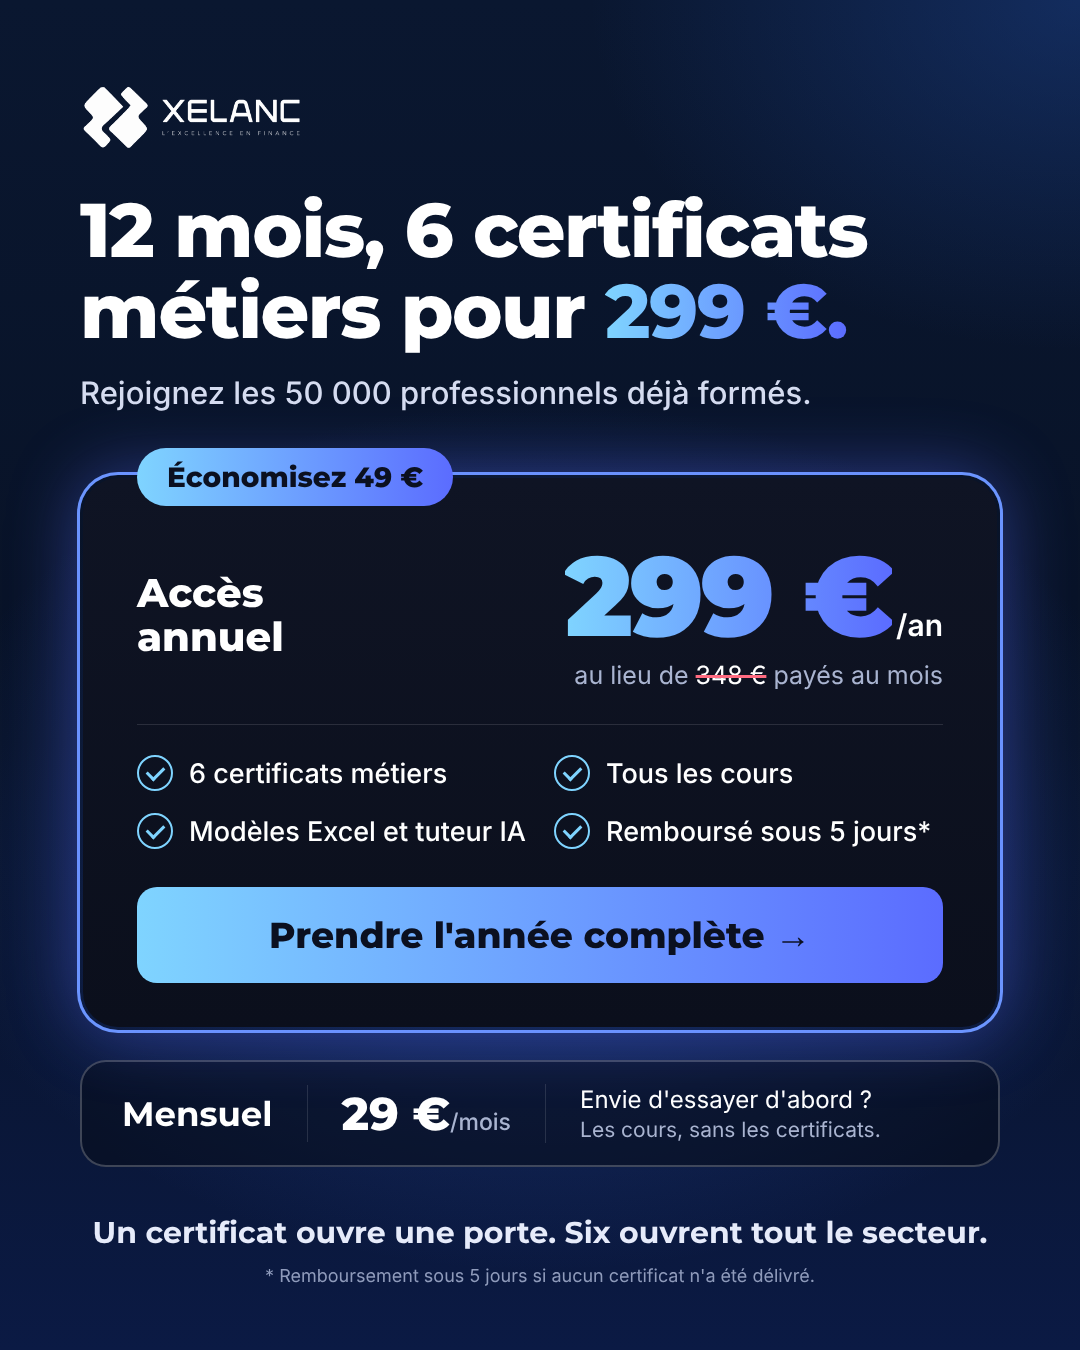
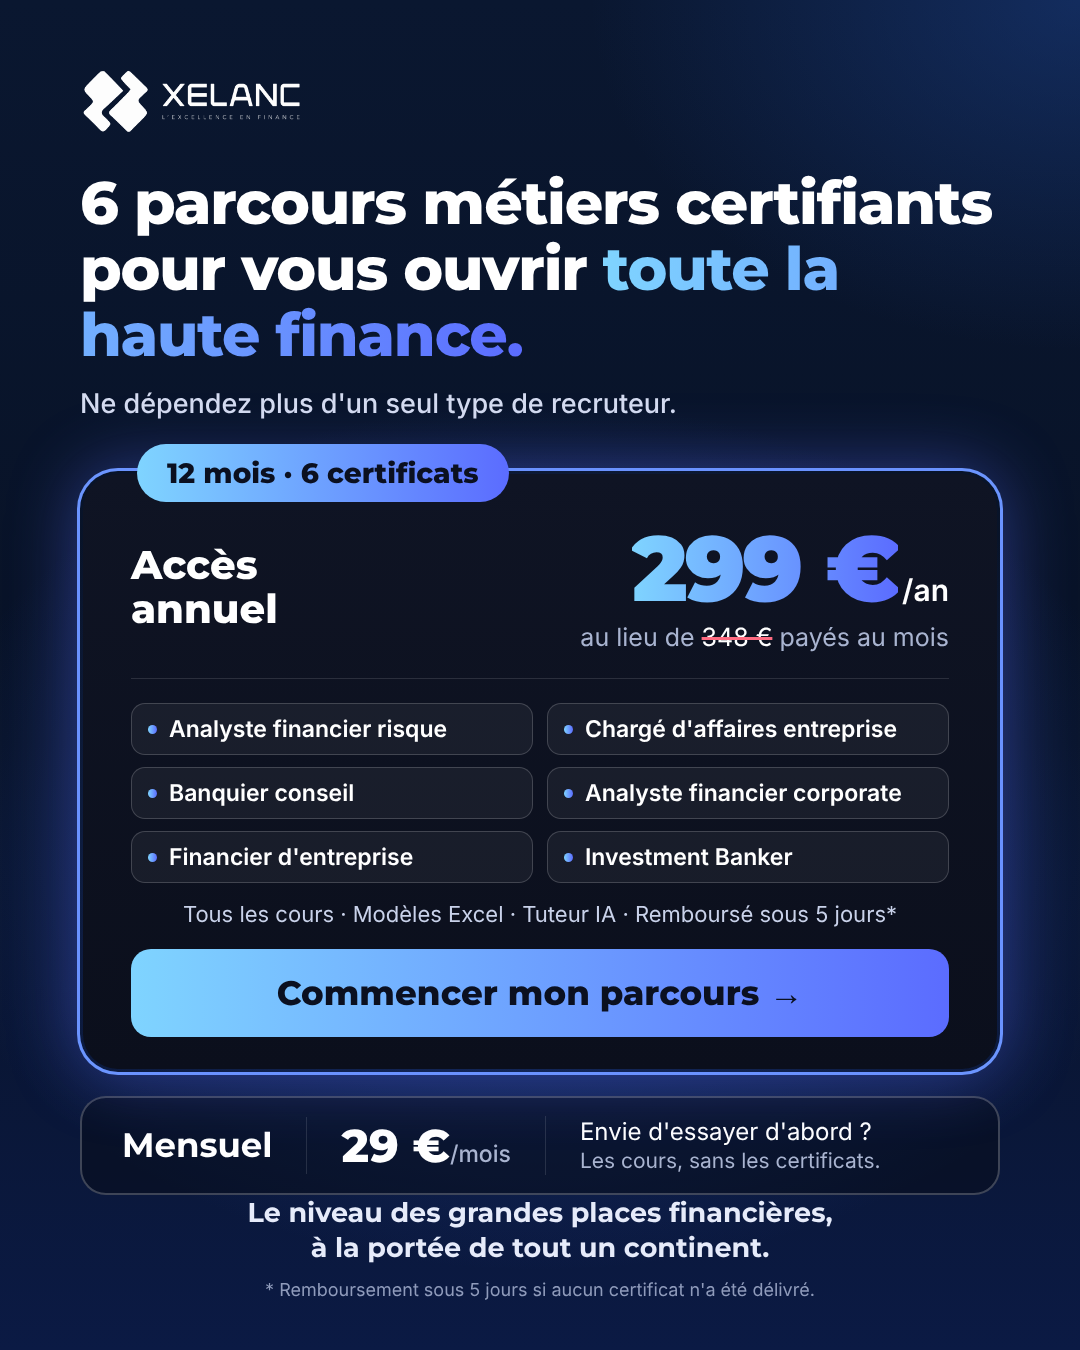
Recentre les visuels de retargeting sur la proposition de valeur
Claude-Session: https://claude.ai/code/session_01LXovPUf4KLwN8kSMXa7eXm

Changed region(s): [[0.0611, 0.0311, 0.9472, 0.9644], [0.1222, 0.4044, 0.275, 0.4978]]

diff --git a/excellence/ads/retargeting/src/v2-valeur.html b/excellence/ads/retargeting/src/v2-valeur.html
@@ -1,0 +1,49 @@
+<!doctype html>
+<html lang="fr"><head><meta charset="utf-8"><link rel="stylesheet" href="style.css"></head>
+<body class="compact tight">
+  <img class="logo" src="logo.png" alt="Xelanc">
+  <p class="eyebrow">PARCOURS MÉTIERS CERTIFIANTS</p>
+  <h1>Ne dépendez plus d'un seul <span class="grad">type de recruteur.</span></h1>
+  <p class="sub">Six métiers de la haute finance. Un certificat vérifiable pour chacun.</p>
+
+  <div class="row" style="margin-top:50px;gap:36px;align-items:center">
+    <div class="cert" style="width:440px;zoom:.86">
+      <div class="cert-in">
+        <img class="mark" src="logo.png" alt="">
+        <div class="t">CERTIFICAT</div>
+        <div class="k">PARCOURS MÉTIER CERTIFIANT</div>
+        <div class="s">Ce certificat atteste que</div>
+        <div class="n">Votre nom</div>
+        <div class="s" style="margin-top:8px">a validé les cinq compétences et réussi l'examen final du parcours</div>
+        <div class="j">Chargé d'affaires entreprise</div>
+        <div class="foot">
+          <div>Identifiant<b>XL-CAP-2026-00127</b>Vérifiable sur xelanc.org</div>
+          <div class="seal"><i></i></div>
+          <div style="text-align:right">Autorité de certification</div>
+        </div>
+      </div>
+    </div>
+    <div class="checks one" style="gap:24px">
+      <div class="check"><i class="tick"></i><div>Un examen final par métier<small>Cinq compétences validées.</small></div></div>
+      <div class="check"><i class="tick"></i><div>Un certificat à votre nom<small>Vérifiable par tout recruteur.</small></div></div>
+      <div class="check"><i class="tick"></i><div>Un badge pour LinkedIn<small>Et pour votre CV.</small></div></div>
+    </div>
+  </div>
+
+  <div class="jobs" style="margin-top:52px;grid-template-columns:1fr 1fr 1fr">
+    <div class="job"><div>Analyste risque<small>Banques</small></div></div>
+    <div class="job"><div>Chargé d'affaires<small>Banques · entreprises</small></div></div>
+    <div class="job"><div>Banquier conseil<small>Banques · clientèle</small></div></div>
+    <div class="job"><div>Analyste corporate<small>Cabinets de conseil</small></div></div>
+    <div class="job"><div>Financier d'entreprise<small>Directions financières</small></div></div>
+    <div class="job"><div>Investment Banker<small>Banques d'affaires</small></div></div>
+  </div>
+
+  <div class="spacer"></div>
+  <div class="bar" style="margin-top:30px">
+    <div class="p"><span class="grad">299&nbsp;€</span> par an<small>Tout compris. Mensuel à 29&nbsp;€, sans les certificats.</small></div>
+    <div class="cta inline" style="margin-top:0">Choisir mon parcours →</div>
+  </div>
+  <div style="height:30px"></div>
+  <p class="sign">Le niveau des grandes places financières,<br>à la portée de tout un continent.</p>
+</body></html>

diff --git a/excellence/ads/retargeting/src/v1-maitre.html b/excellence/ads/retargeting/src/v1-maitre.html
@@ -1,12 +1,12 @@
 <!doctype html>
 <html lang="fr"><head><meta charset="utf-8"><link rel="stylesheet" href="style.css"></head>
-<body>
+<body class="compact">
   <img class="logo" src="logo.png" alt="Xelanc">
-  <h1>12 mois, 6 certificats métiers pour <span class="grad">299&nbsp;€.</span></h1>
-  <p class="sub">Rejoignez les 50&nbsp;000 professionnels déjà formés.</p>
+  <h1 style="margin-top:30px">6 parcours métiers certifiants pour vous ouvrir <span class="grad">toute la haute finance.</span></h1>
+  <p class="sub">Ne dépendez plus d'un seul type de recruteur.</p>
 
   <div class="card">
-    <div class="pill">Économisez 49&nbsp;€</div>
+    <div class="pill">12 mois · 6 certificats</div>
     <div class="offer">
       <div class="name">Accès<br>annuel</div>
       <div class="price">
@@ -15,13 +15,16 @@
       </div>
     </div>
     <div class="rule"></div>
-    <div class="checks">
-      <div class="check"><i class="tick"></i>6 certificats métiers</div>
-      <div class="check"><i class="tick"></i>Tous les cours</div>
-      <div class="check"><i class="tick"></i>Modèles Excel et tuteur IA</div>
-      <div class="check"><i class="tick"></i>Remboursé sous 5 jours*</div>
+    <div class="jobs">
+      <div class="job">Analyste financier risque</div>
+      <div class="job">Chargé d'affaires entreprise</div>
+      <div class="job">Banquier conseil</div>
+      <div class="job">Analyste financier corporate</div>
+      <div class="job">Financier d'entreprise</div>
+      <div class="job">Investment Banker</div>
     </div>
-    <div class="cta">Prendre l'année complète →</div>
+    <p class="incl">Tous les cours · Modèles Excel · Tuteur IA · Remboursé sous 5 jours*</p>
+    <div class="cta">Commencer mon parcours →</div>
   </div>
 
   <div class="monthly">
@@ -31,6 +34,6 @@
   </div>
 
   <div class="spacer"></div>
-  <p class="sign">Un certificat ouvre une porte. Six ouvrent tout le secteur.</p>
+  <p class="sign">Le niveau des grandes places financières,<br>à la portée de tout un continent.</p>
   <p class="fine">* Remboursement sous 5 jours si aucun certificat n'a été délivré.</p>
 </body></html>

diff --git a/excellence/ads/retargeting/src/style.css b/excellence/ads/retargeting/src/style.css
@@ -160,3 +160,30 @@ h1 {
 .bar { display: flex; align-items: center; justify-content: space-between; gap: 30px; }
 .bar .p { font-family: Montserrat, sans-serif; font-weight: 800; font-size: 42px; white-space: nowrap; }
 .bar .p small { font-family: Inter, sans-serif; font-size: 21px; font-weight: 500; color: var(--muted); display: block; margin-top: 4px; }
+
+/* v2 : proposition de valeur */
+.sign { line-height: 1.3; font-size: 27px; }
+.jobs { display: grid; grid-template-columns: 1fr 1fr; gap: 12px 14px; }
+.job { border: 1.5px solid rgba(255, 255, 255, .18); background: rgba(255, 255, 255, .05); border-radius: 14px; padding: 13px 18px; font-size: 23px; font-weight: 600; white-space: nowrap; display: flex; align-items: center; gap: 12px; }
+.job::before { content: ''; width: 9px; height: 9px; border-radius: 50%; background: var(--grad); flex: none; }
+.job small { display: block; font-size: 18px; font-weight: 400; color: var(--muted); margin-top: 2px; }
+.incl { font-size: 22px; color: #c9d2ea; text-align: center; margin-top: 22px; }
+.eyebrow { font-family: Montserrat, sans-serif; font-weight: 700; font-size: 22px; letter-spacing: 4px; color: var(--g1); margin-top: 30px; }
+.compact .card { margin-top: 54px; padding: 52px 48px 36px; }
+.compact .price .big { font-size: 92px; }
+.compact .rule { margin: 26px 0 24px; }
+.compact .cta { margin-top: 26px; font-size: 34px; padding: 23px 30px; }
+.compact .monthly { margin-top: 24px; padding: 18px 40px; }
+.compact h1 { font-size: 60px; line-height: 1.1; margin-top: 12px; letter-spacing: -1.2px; }
+.compact .sub { font-size: 27px; margin-top: 18px; }
+body.compact { padding-top: 60px; padding-bottom: 52px; }
+.compact .eyebrow { margin-top: 24px; }
+.compact .card { margin-top: 50px; padding: 48px 48px 32px; }
+.compact .job { padding: 11px 16px; }
+.compact .incl { margin-top: 18px; }
+.compact .cta { margin-top: 22px; }
+.tight .job { font-size: 20px; padding: 12px 14px; gap: 10px; }
+.tight .job small { font-size: 16px; }
+.tight .bar .p { font-size: 38px; }
+.tight .bar .p small { font-size: 19px; }
+.tight .cta.inline { font-size: 29px; padding: 24px 30px; }

diff --git a/excellence/ads/retargeting/src/v3-panier.html b/excellence/ads/retargeting/src/v3-panier.html
@@ -1,21 +1,22 @@
 <!doctype html>
 <html lang="fr"><head><meta charset="utf-8"><link rel="stylesheet" href="style.css"></head>
-<body>
+<body class="compact">
   <img class="logo" src="logo.png" alt="Xelanc">
-  <h1>Votre accès<br><span class="grad">vous attend.</span></h1>
+  <h1 style="margin-top:30px">Vos 6 parcours métiers certifiants <span class="grad">vous attendent.</span></h1>
   <p class="sub">Vous y étiez presque. Il reste une étape.</p>
 
   <div class="card">
     <div class="pill">Votre inscription est en attente</div>
     <div class="offer">
-      <div class="name">Accès annuel<br>6 certificats</div>
+      <div class="name">Accès<br>annuel</div>
       <div class="price">
         <span class="big grad">299&nbsp;€</span><span class="per">/an</span>
         <div class="instead">au lieu de <s>348&nbsp;€</s> payés au mois</div>
       </div>
     </div>
     <div class="rule"></div>
-    <div class="checks one">
+    <div class="checks one" style="gap:18px">
+      <div class="check"><i class="tick"></i><div>Six métiers, six certificats<small>Banques, cabinets de conseil, directions financières, banques d'affaires.</small></div></div>
       <div class="check"><i class="tick"></i><div>Payez comme vous voulez<small>PAYMENT_LINE</small></div></div>
       <div class="check"><i class="tick"></i><div>Sans risque<small>Remboursé sous 5 jours si aucun certificat n'a été délivré.</small></div></div>
       <div class="check"><i class="tick"></i><div>Pas prêt pour l'année&nbsp;?<small>Le mensuel est à 29&nbsp;€, sans engagement.</small></div></div>
@@ -24,5 +25,5 @@
   </div>
 
   <div class="spacer"></div>
-  <p class="sign">Un certificat ouvre une porte. Six ouvrent tout le secteur.</p>
+  <p class="sign">Le niveau des grandes places financières,<br>à la portée de tout un continent.</p>
 </body></html>

diff --git a/excellence/ads/retargeting/src/v4-echeance.html b/excellence/ads/retargeting/src/v4-echeance.html
@@ -3,7 +3,7 @@
 <body>
   <img class="logo" src="logo.png" alt="Xelanc">
   <h1>Offre fondateurs&nbsp;:<br>votre prix, <span class="grad">bloqué à vie.</span></h1>
-  <p class="sub">500 places. Du 27 au 30 novembre.</p>
+  <p class="sub">6 parcours métiers certifiants. 500 places, du 27 au 30 novembre.</p>
 
   <div class="card">
     <div class="pill">Jusqu'au 30 novembre</div>
@@ -16,7 +16,7 @@
     </div>
     <div class="rule"></div>
     <div class="checks">
-      <div class="check"><i class="tick"></i>6 certificats métiers</div>
+      <div class="check"><i class="tick"></i>6 parcours certifiants</div>
       <div class="check"><i class="tick"></i>Tous les cours</div>
       <div class="check"><i class="tick"></i>Modèles Excel et tuteur IA</div>
       <div class="check"><i class="tick"></i>Remboursé sous 5 jours*</div>
@@ -30,6 +30,6 @@
   </div>
 
   <div class="spacer"></div>
-  <p class="sign">Un certificat ouvre une porte. Six ouvrent tout le secteur.</p>
+  <p class="sign">Le niveau des grandes places financières,<br>à la portée de tout un continent.</p>
   <p class="fine">* Remboursement sous 5 jours si aucun certificat n'a été délivré.</p>
 </body></html>

diff --git a/excellence/ads/retargeting/src/render.js b/excellence/ads/retargeting/src/render.js
@@ -7,7 +7,7 @@ const src = __dirname;
 const out = path.join(__dirname, '..');
 const jobs = [
   ['v1-maitre.html', 'v1-maitre.png'],
-  ['v2-certificat.html', 'v2-certificat.png'],
+  ['v2-valeur.html', 'v2-valeur.png'],
   ['v3-panier.html', 'v3-panier.png', 'Carte bancaire ou virement.'],
   ['v3-panier.html', 'v3-panier-mobile-money.png', 'Mobile Money (Orange, MTN, Moov, Wave), carte ou virement.'],
   ['v4-echeance.html', 'v4-echeance.png'],
